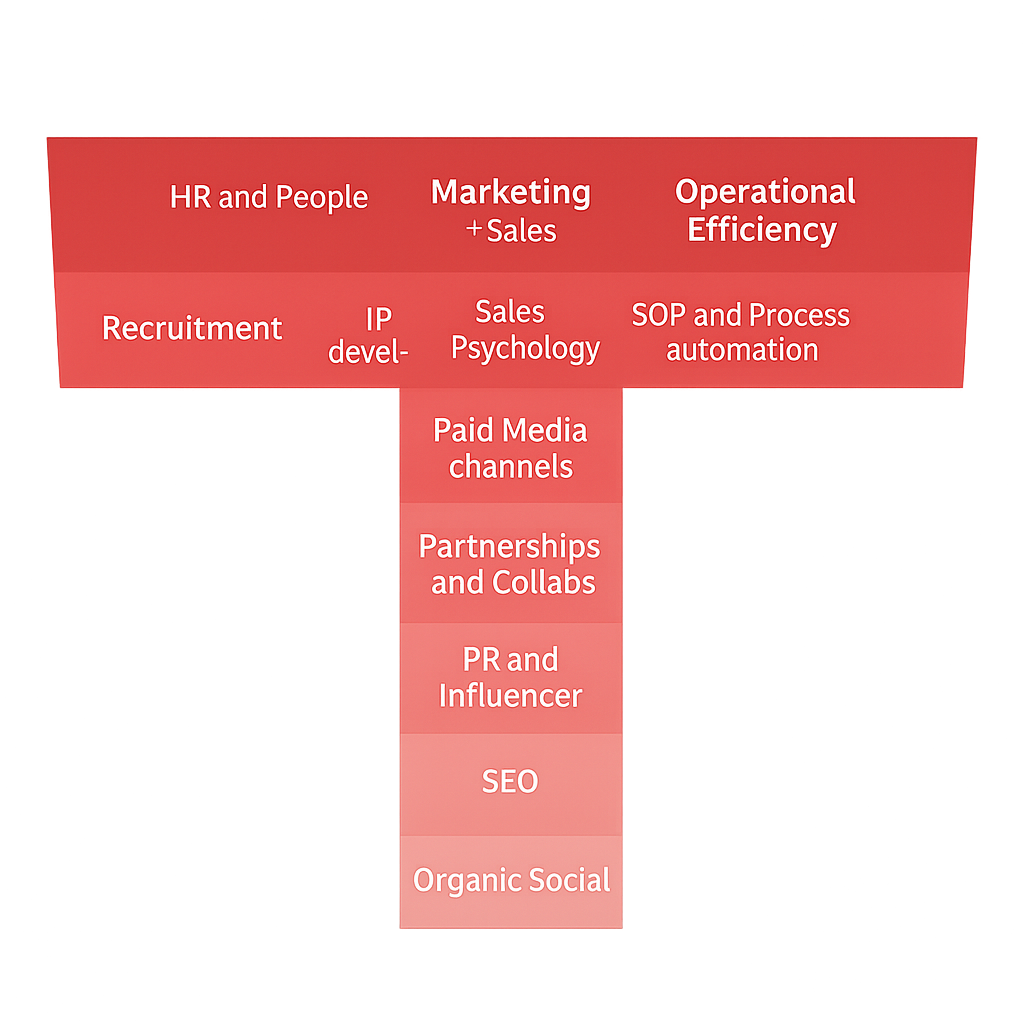
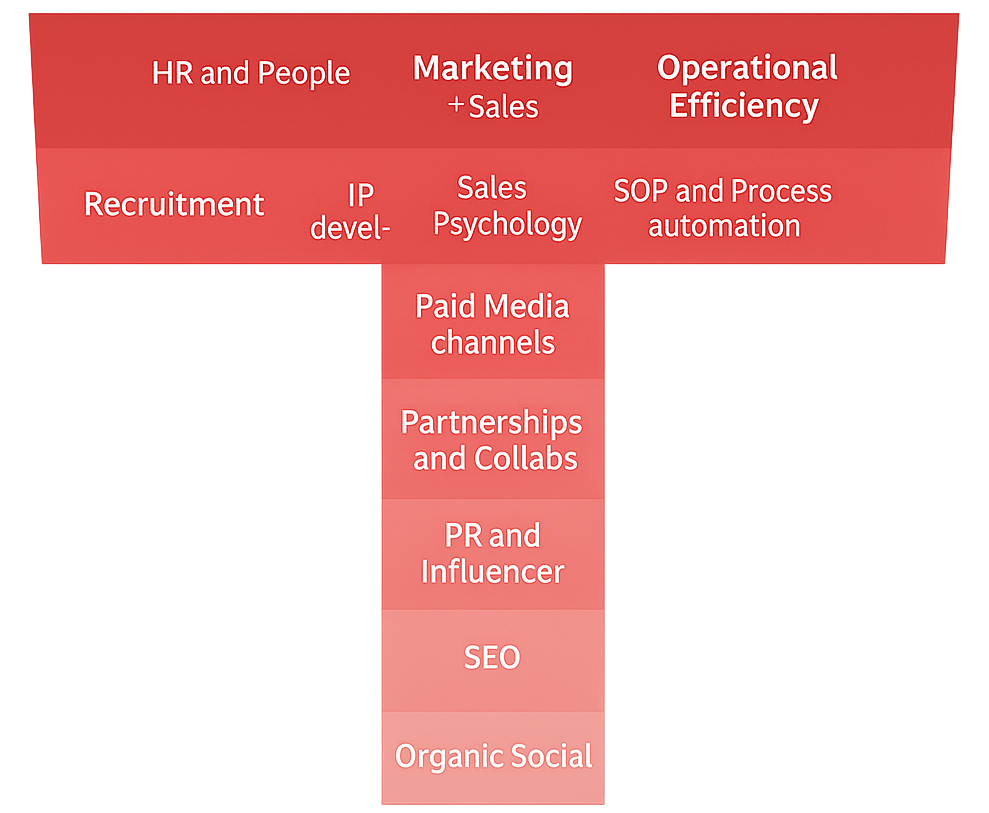
ui fix

Changed region(s): [[0.0303, 0.0, 0.9707, 1.0]]

diff --git a/src/pages/Services/MicroSaas.tsx b/src/pages/Services/MicroSaas.tsx
@@ -129,7 +129,7 @@ const MicroSaas = (): JSX.Element => {
 
   {/* Hero content */}
         <div className="relative flex flex-col w-full items-center justify-center  px-4">
-          <div className="flex flex-col max-w-[757px] items-center gap-10 mt-40">
+          <div className="flex flex-col max-w-[757px] items-center gap-10 my-40">
           <div className="flex flex-col items-center justify-center gap-[30px] w-full">
               <h1 className="relative w-full  [font-family:'Playfair',Helvetica] font-bold text-foundationblackblack-13 text-3xl md:text-[42px] text-center line-height-[1.2] leading-normal">
               Build or Buy a MicroSaaS—We’ve Already Done Both
@@ -156,13 +156,13 @@ const MicroSaas = (): JSX.Element => {
           </div>
           
           </div>
-          <div className="md:h-[500px] h-[200px]  max-w-3xl mx-auto aspect-video bg-gray-100 rounded-lg border border-gray-200 flex items-center justify-center my-10">
+          {/* <div className="md:h-[500px] h-[200px]  max-w-3xl mx-auto aspect-video bg-gray-100 rounded-lg border border-gray-200 flex items-center justify-center my-10">
               <div className="  flex items-center justify-center">
                 <div className="rounded-full bg-white p-3 shadow-md">
                   <Play className="h-6 w-6 text-red-500" />
                 </div>
               </div>
-            </div>
+            </div> */}
         </div>
       </section>
       <section className="md:py-20 py-8 px-4 md:px-20 ">

diff --git a/src/pages/Services/AIConsulting.tsx b/src/pages/Services/AIConsulting.tsx
@@ -112,7 +112,7 @@ const AIConsulting = (): JSX.Element => {
 
   {/* Hero content */}
         <div className="relative flex flex-col w-full items-center justify-center  px-4">
-          <div className="flex flex-col max-w-[757px] items-center gap-10 mt-40">
+          <div className="flex flex-col max-w-[757px] items-center gap-10 my-40">
           <div className="flex flex-col items-center justify-center gap-[30px] w-full">
               <h1 className="relative w-full  [font-family:'Playfair',Helvetica] font-bold text-foundationblackblack-13 text-3xl md:text-[42px] text-center line-height-[1.2] leading-normal">
               AI Consulting Services
@@ -140,13 +140,13 @@ const AIConsulting = (): JSX.Element => {
           </div>
           
           </div> 
-          <div className="md:h-[500px] h-[200px]  max-w-3xl mx-auto aspect-video bg-gray-100 rounded-lg border border-gray-200 flex items-center justify-center my-10">
+          {/* <div className="md:h-[500px] h-[200px]  max-w-3xl mx-auto aspect-video bg-gray-100 rounded-lg border border-gray-200 flex items-center justify-center my-10">
               <div className="  flex items-center justify-center">
                 <div className="rounded-full bg-white p-3 shadow-md">
                   <Play className="h-6 w-6 text-red-500" />
                 </div>
               </div>
-            </div>
+            </div> */}
         </div>
       </section>
       <section className="md:py-20 py-8 px-4 md:px-20 ">

diff --git a/src/pages/Desktop/sections/SalesPlaybooks.tsx b/src/pages/Desktop/sections/SalesPlaybooks.tsx
@@ -32,9 +32,9 @@ export const SalesPlaybooks = (): JSX.Element => {
           Accelerating Growth Through a Proven Sales Engine
         </h2>
 
-        <div className="flex flex-col md:flex-row justify-between items-center w-full gap-8 md:mb-16 mb-8">
+        <div className="flex flex-col md:flex-row justify-between items-center w-full gap-16 md:mb-16 mb-8">
           {/* Funnel Visualization */}
-          <div className="relative w-full md:w-[518px] h-auto">
+          <div className="relative w-full md:w-1/2 h-auto">
           
             <img
               className="size-full"
@@ -44,7 +44,7 @@ export const SalesPlaybooks = (): JSX.Element => {
           </div>
 
           {/* Funnel Cards */}
-          <div className="flex flex-col md:gap-[39px] gap-8 w-full md:w-[429px]">
+          <div className="flex flex-col md:gap-[39px] gap-8 w-full md:w-1/2">
             {funnelStages.map((stage, index) => (
               <Card
                 key={stage.id}
@@ -64,7 +64,7 @@ export const SalesPlaybooks = (): JSX.Element => {
         </div>
 
         <Button className="bg-foundationredred-13 text-foundation-blackblack-1 rounded-[70px] px-4 py-3 font-['Lato',Helvetica] font-medium text-base">
-           Dive deep on why it matters!
+          <a href="services/t-shape-growth"> Dive deep on why it matters! </a>
         </Button>
       </div>
     </section>

diff --git a/src/pages/Services/SaasSolution.tsx b/src/pages/Services/SaasSolution.tsx
@@ -163,7 +163,7 @@ const SaasSolution = (): JSX.Element => {
 
 				{/* Hero content */}
 				<div className="relative flex flex-col w-full items-center justify-center  px-4">
-					<div className="flex flex-col max-w-[757px] items-center gap-10 mt-40">
+					<div className="flex flex-col max-w-[757px] items-center gap-10 my-40">
 						<div className="flex flex-col items-center justify-center gap-[30px] w-full">
 							<h1 className="relative w-full  [font-family:'Playfair',Helvetica] font-bold text-foundationblackblack-13 text-3xl md:text-[42px] text-center line-height-[1.2] leading-normal">
 								Custom SaaS Apps Development
@@ -193,13 +193,13 @@ const SaasSolution = (): JSX.Element => {
 							</Button>
 						</div>
 					</div>
-					<div className="md:h-[500px] h-[200px]  max-w-3xl mx-auto aspect-video bg-gray-100 rounded-lg border border-gray-200 flex items-center justify-center my-10">
+					{/* <div className="md:h-[500px] h-[200px]  max-w-3xl mx-auto aspect-video bg-gray-100 rounded-lg border border-gray-200 flex items-center justify-center my-10">
 						<div className="  flex items-center justify-center">
 							<div className="rounded-full bg-white p-3 shadow-md">
 								<Play className="h-6 w-6 text-red-500" />
 							</div>
 						</div>
-					</div>
+					</div> */}
 				</div>
 			</section>
 			<section className="md:py-20 py-8 px-4 md:px-20 ">

diff --git a/src/components/ui/UsecaseCarausel.tsx b/src/components/ui/UsecaseCarausel.tsx
@@ -52,8 +52,8 @@ const UseCaseCarousel: React.FC<Props> = ({ useCases, title, ctaText }) => {
               <div
                 className={`overflow-hidden transition-all duration-300 ease-in-out mx-2 rounded-2xl mb-4 p-6 shadow-md bg-white flex flex-col items-center justify-center ${
                   index === activeSlide
-                    ? "h-[450px] mt-0"
-                    : "h-[200px] mt-[250px] "
+                    ? "h-[550px] mt-0"
+                    : "h-[300px] mt-[250px] "
                 }`}
               >
                 {index === activeSlide && (
